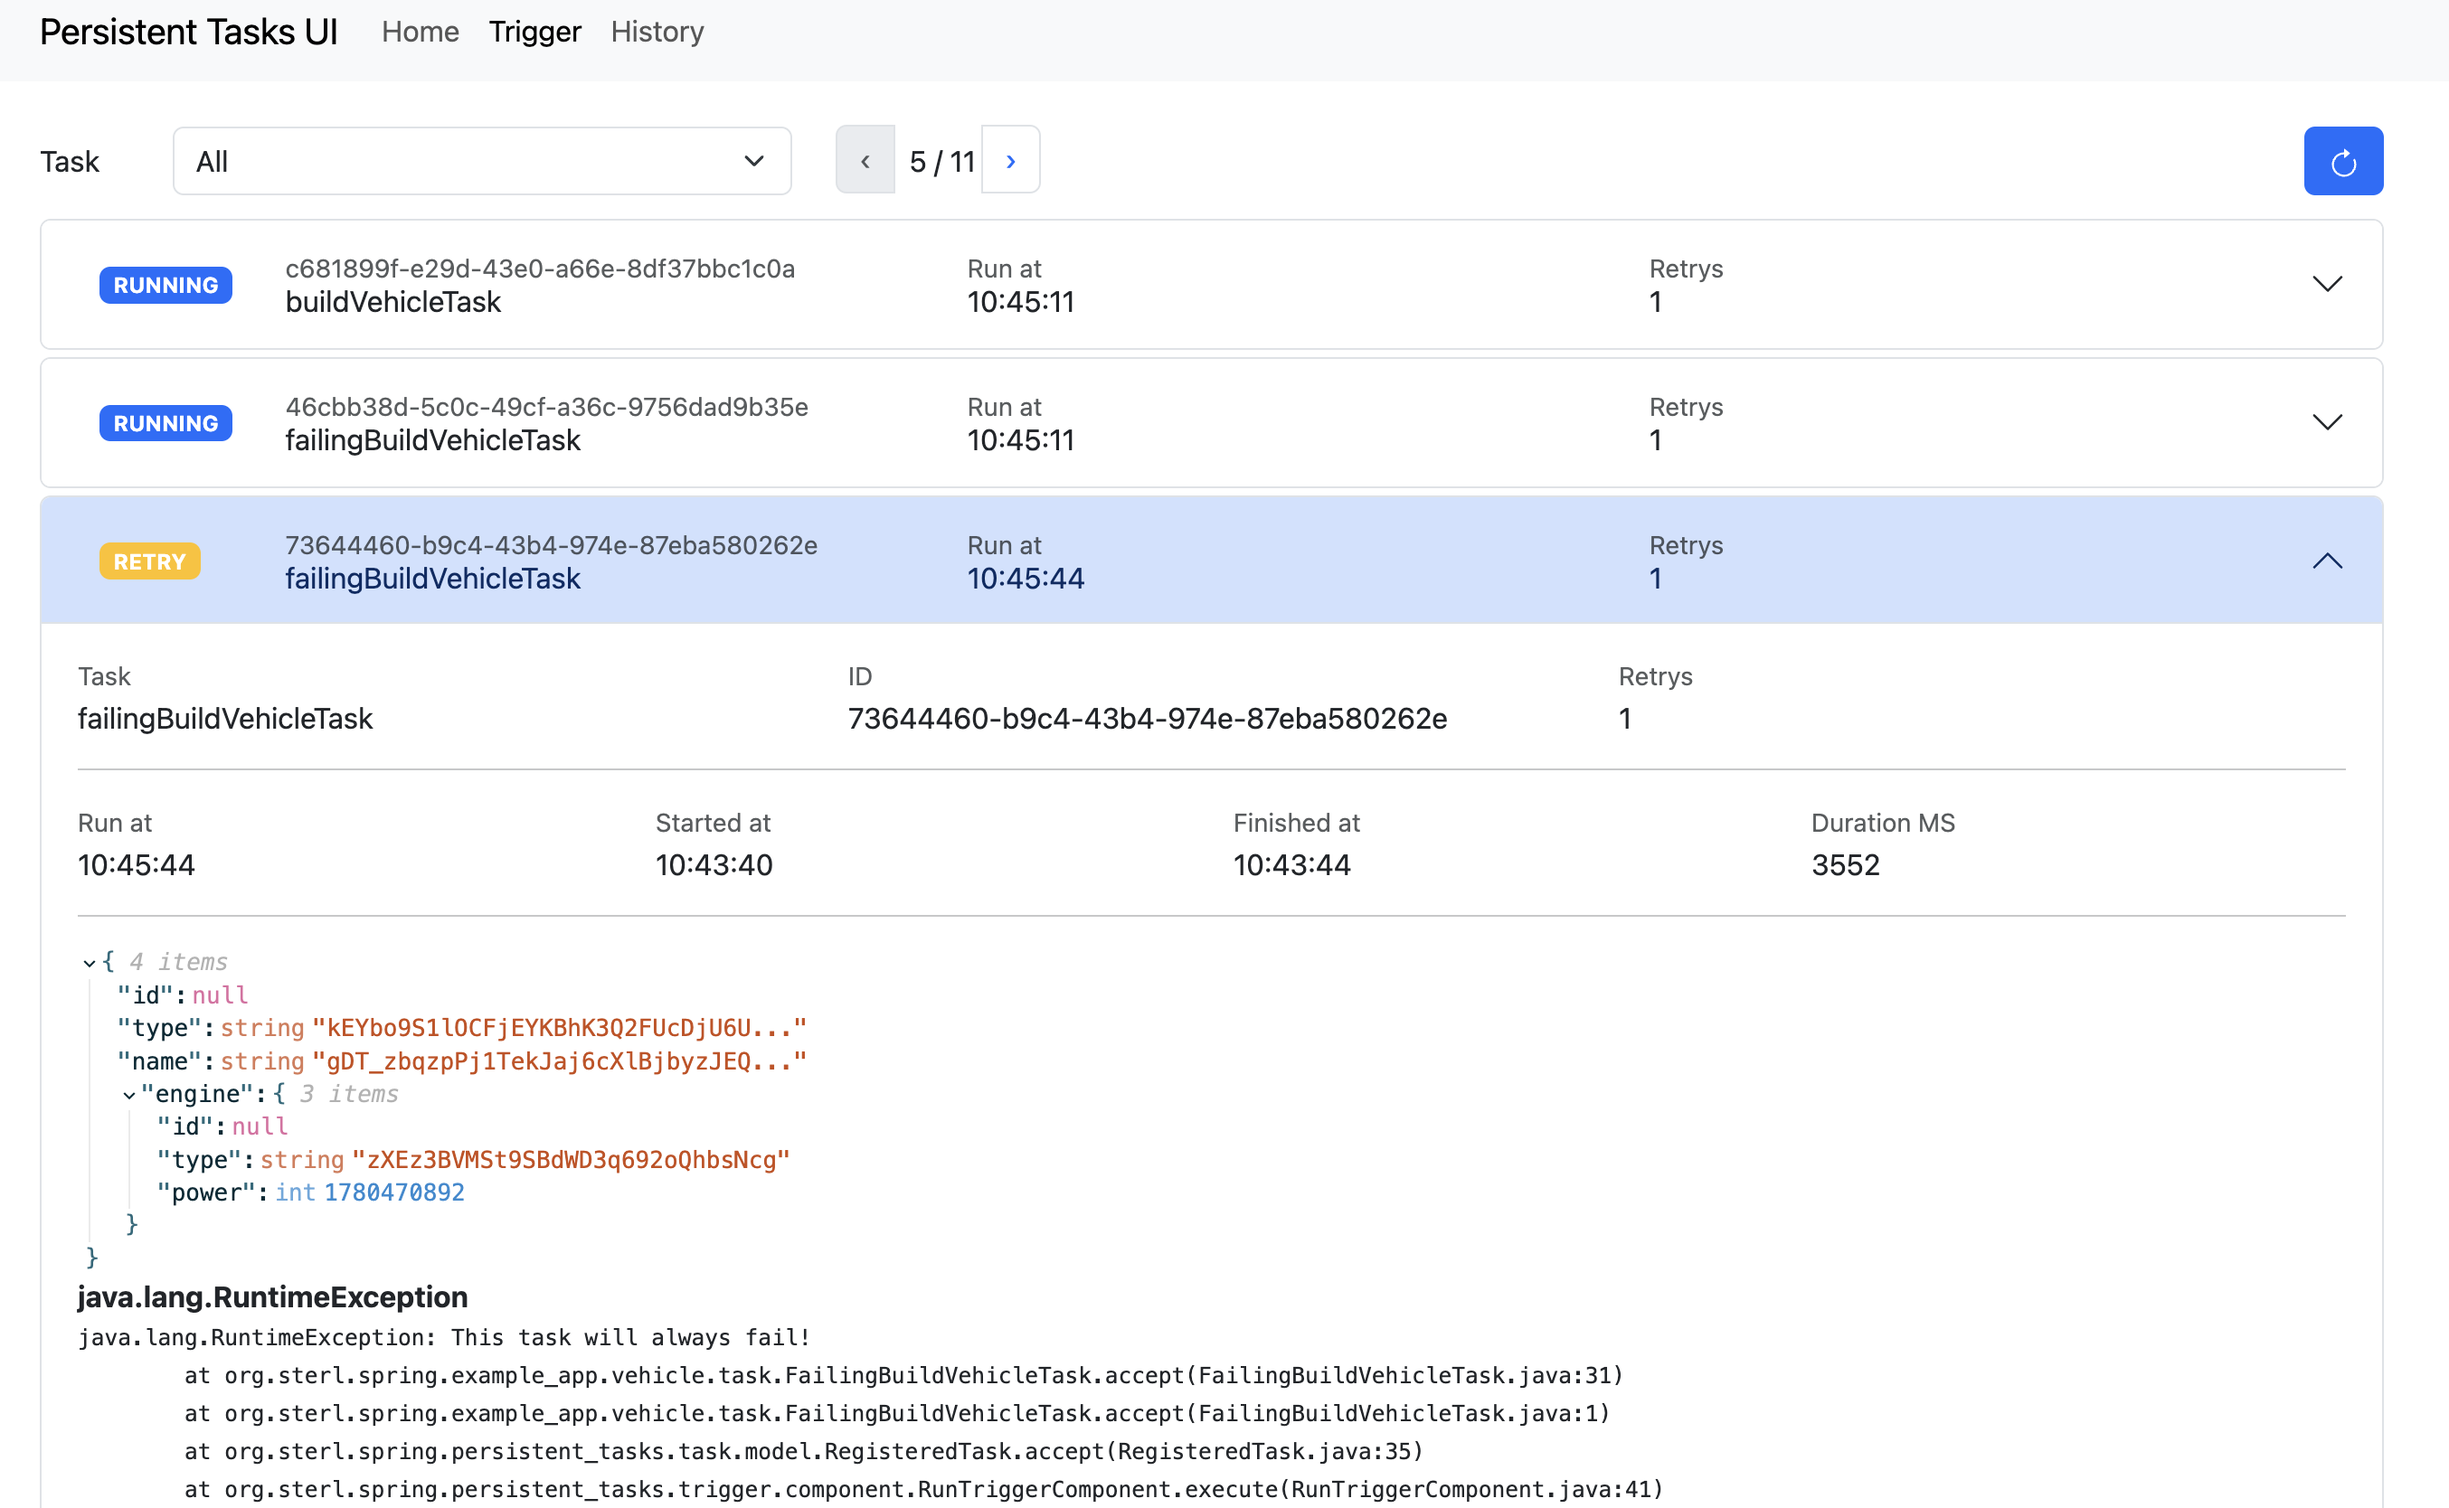
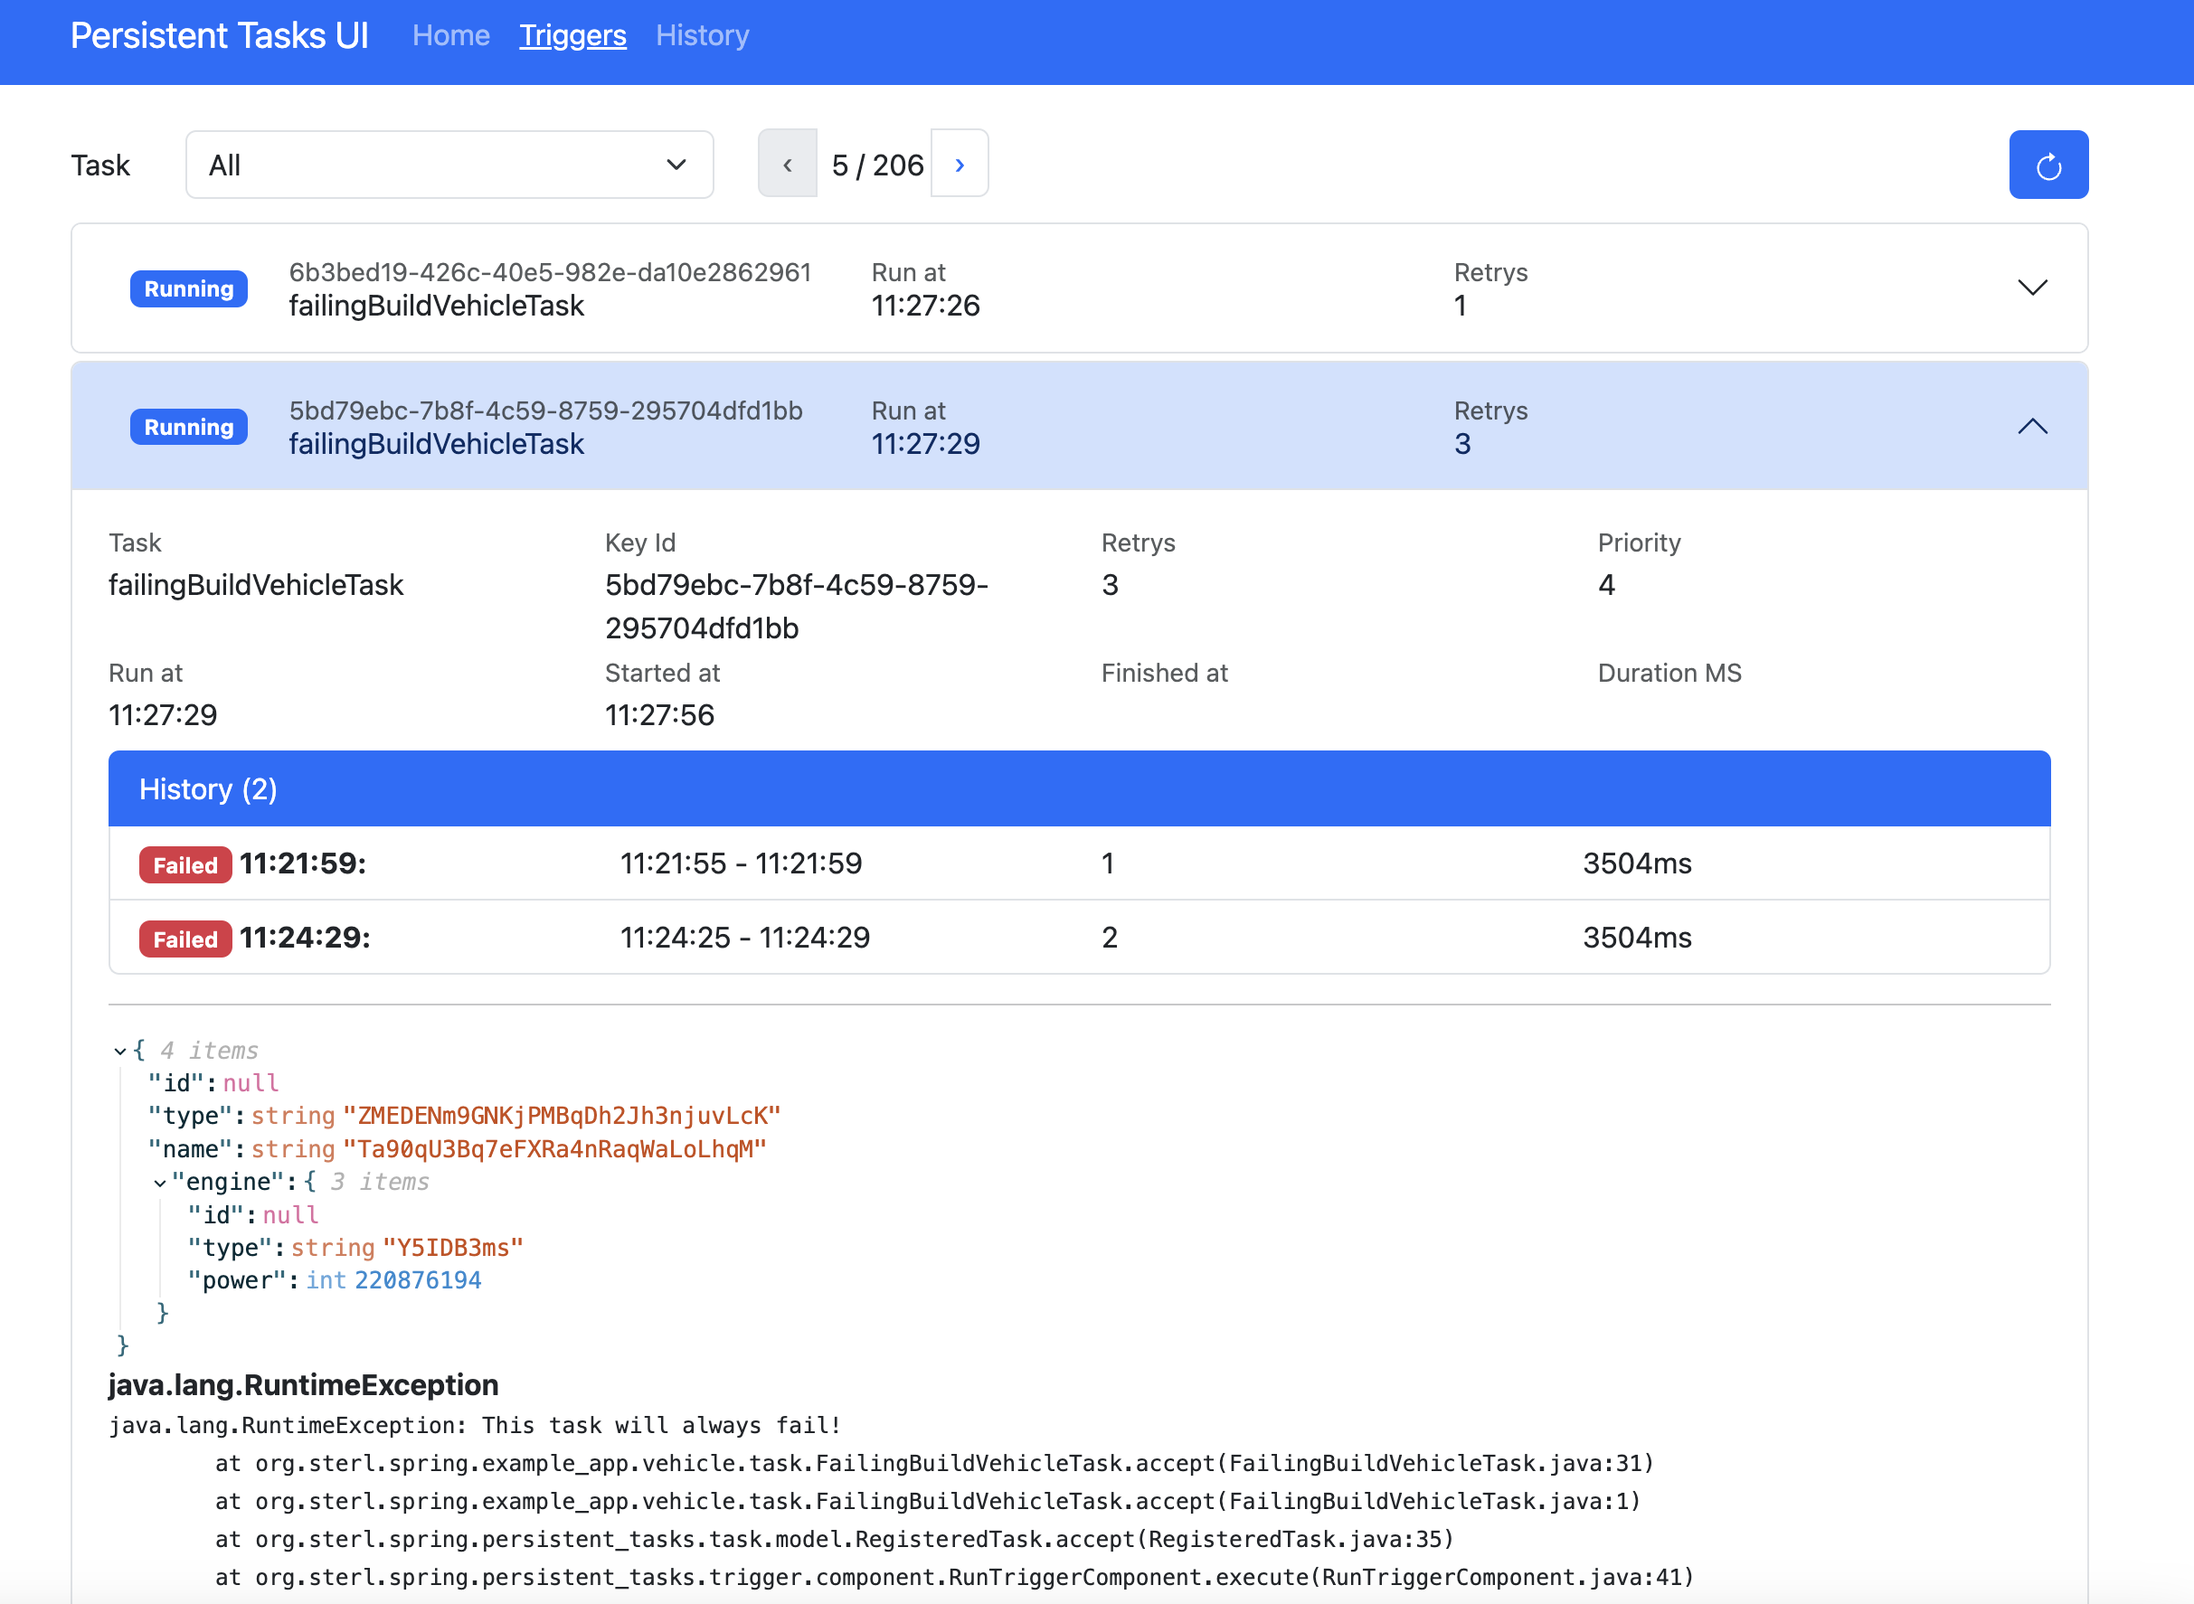
showing history

diff --git a/ui/src/history/view/trigger-history.view.tsx b/ui/src/history/view/trigger-history.view.tsx
@@ -20,7 +20,7 @@ const TriggerHistoryListView = ({ triggers }: { triggers?: Trigger[] }) => {
                         <Col>
                             <TriggerStatusView data={t} />
                             <strong>
-                                {" " + formatDateTime(t.createdTime)}:
+                                {" at " + formatDateTime(t.createdTime)}
                             </strong>
                         </Col>
                         <Col>

diff --git a/core/src/main/java/org/sterl/spring/persistent_tasks/trigger/TriggerService.java b/core/src/main/java/org/sterl/spring/persistent_tasks/trigger/TriggerService.java
@@ -6,7 +6,6 @@ import java.util.Collection;
 import java.util.List;
 import java.util.Optional;
 
-import org.springframework.context.event.EventListener;
 import org.springframework.data.domain.Page;
 import org.springframework.data.domain.Pageable;
 import org.springframework.lang.NonNull;
@@ -16,7 +15,6 @@ import org.springframework.transaction.annotation.Transactional;
 import org.sterl.spring.persistent_tasks.api.AddTriggerRequest;
 import org.sterl.spring.persistent_tasks.api.TaskId;
 import org.sterl.spring.persistent_tasks.api.TriggerKey;
-import org.sterl.spring.persistent_tasks.api.event.TriggerTaskCommand;
 import org.sterl.spring.persistent_tasks.shared.model.TriggerStatus;
 import org.sterl.spring.persistent_tasks.shared.stereotype.TransactionalService;
 import org.sterl.spring.persistent_tasks.task.TaskService;
@@ -45,13 +43,20 @@ public class TriggerService {
      * and handle any errors etc.
      *
      * @param trigger the {@link TriggerEntity} to run
-     * @return the reference to the updated {@link TriggerEntity}
+     * @return the reference to the found an executed {@link TriggerEntity}
      */
     @Transactional(propagation = Propagation.NEVER)
     public Optional<TriggerEntity> run(@Nullable TriggerEntity trigger) {
         return runTrigger.execute(trigger);
     }
 
+    /**
+     * The main purpose of this method is to simplify testing and run just one trigger.
+     * 
+     * @param triggerKey the key to trigger which should be executed
+     * @param runningOn just any string, could be test for testing, usually the scheduler name
+     * @return the reference to the found an executed {@link TriggerEntity}
+     */
     @Transactional(propagation = Propagation.NEVER)
     public Optional<TriggerEntity> run(TriggerKey triggerKey, String runningOn) {
         final TriggerEntity trigger = lockNextTrigger.lock(triggerKey, runningOn);
@@ -106,11 +111,14 @@ public class TriggerService {
         return readTrigger.hasPendingTriggers();
     }
 
-    @EventListener
-    public void queue(TriggerTaskCommand<? extends Serializable> event) {
-        queueAll(event.triggers());
-    }
-
+    /**
+     * Adds or updates an existing trigger based on its {@link TriggerKey}
+     * 
+     * @param <T> the state type
+     * @param tigger the {@link AddTriggerRequest} to save
+     * @return the saved {@link TriggerEntity}
+     * @throws IllegalStateException if the trigger already exists and is {@link TriggerStatus#RUNNING}
+     */
     public <T extends Serializable> TriggerEntity queue(AddTriggerRequest<T> tigger) {
         taskService.assertIsKnown(tigger.taskId());
         return editTrigger.addTrigger(tigger);

diff --git a/core/src/main/java/org/sterl/spring/persistent_tasks/PersistentTaskService.java b/core/src/main/java/org/sterl/spring/persistent_tasks/PersistentTaskService.java
@@ -1,0 +1,49 @@
+package org.sterl.spring.persistent_tasks;
+
+import java.io.Serializable;
+
+import org.springframework.beans.factory.annotation.Autowired;
+import org.springframework.context.event.EventListener;
+import org.springframework.stereotype.Service;
+import org.sterl.spring.persistent_tasks.api.AddTriggerRequest;
+import org.sterl.spring.persistent_tasks.api.TriggerKey;
+import org.sterl.spring.persistent_tasks.api.event.TriggerTaskCommand;
+import org.sterl.spring.persistent_tasks.scheduler.SchedulerService;
+import org.sterl.spring.persistent_tasks.trigger.TriggerService;
+
+/**
+ * Abstraction to {@link SchedulerService} or {@link TriggerService}
+ * depends on if the {@link SchedulerService} is available.
+ */
+@Service
+public class PersistentTaskService {
+
+    @Autowired(required = false)
+    private SchedulerService schedulerService;
+    @Autowired
+    private TriggerService triggerService;
+    
+    @EventListener
+    void queue(TriggerTaskCommand<? extends Serializable> event) {
+        if (event.triggers().size() == 1) {
+            runOrQueue(event.triggers().iterator().next());
+        } else {
+            triggerService.queueAll(event.triggers());
+        }
+    }
+
+    /**
+     * Runs the given trigger if a free threads are available
+     * and the runAt time is not in the future.
+     * @return the reference to the {@link TriggerKey} 
+     */
+    public <T extends Serializable> TriggerKey runOrQueue(
+            AddTriggerRequest<T> triggerRequest) {
+        if (schedulerService == null) {
+            schedulerService.runOrQueue(triggerRequest);
+        } else {
+            triggerService.queue(triggerRequest);
+        }
+        return triggerRequest.key();
+    }
+}

diff --git a/core/src/main/java/org/sterl/spring/persistent_tasks/trigger/component/EditTriggerComponent.java b/core/src/main/java/org/sterl/spring/persistent_tasks/trigger/component/EditTriggerComponent.java
@@ -17,6 +17,7 @@ import org.sterl.spring.persistent_tasks.api.TaskId;
 import org.sterl.spring.persistent_tasks.api.TriggerKey;
 import org.sterl.spring.persistent_tasks.shared.model.TriggerData;
 import org.sterl.spring.persistent_tasks.shared.model.TriggerStatus;
+import org.sterl.spring.persistent_tasks.trigger.event.TriggerAddedEvent;
 import org.sterl.spring.persistent_tasks.trigger.event.TriggerCanceledEvent;
 import org.sterl.spring.persistent_tasks.trigger.event.TriggerCompleteEvent;
 import org.sterl.spring.persistent_tasks.trigger.event.TriggerFailedEvent;
@@ -90,7 +91,7 @@ public class EditTriggerComponent {
         final Optional<TriggerEntity> existing = triggerRepository.findByKey(result.getKey());
         if (existing.isPresent()) {
             if (existing.get().isRunning()) 
-                throw new IllegalStateException("Cannot update running trigger " + result.getKey());
+                throw new IllegalStateException("Cannot update a running trigger " + result.getKey());
             
             existing.get().setData(result.getData());
             result = existing.get();
@@ -98,6 +99,7 @@ public class EditTriggerComponent {
         } else {
             result = triggerRepository.save(result);
             log.debug("Added trigger={}", result);
+            publisher.publishEvent(new TriggerAddedEvent(result));
         }
         return result;
     }

diff --git a/core/src/main/java/org/sterl/spring/persistent_tasks/scheduler/SchedulerService.java b/core/src/main/java/org/sterl/spring/persistent_tasks/scheduler/SchedulerService.java
@@ -117,10 +117,11 @@ public class SchedulerService {
     }
 
     /**
-     * Runs the next trigger if free threads are available
+     * Runs the given trigger if a free threads are available
      * and the runAt time is not in the future.
      */
-    public Optional<Future<TriggerKey>> runOrQueue(AddTriggerRequest<? extends Serializable> triggerRequest) {
+    public <T extends Serializable> Optional<Future<TriggerKey>> runOrQueue(
+            AddTriggerRequest<T> triggerRequest) {
         return trx.execute(t -> {
             Optional<Future<TriggerKey>> result = Optional.empty();
             var trigger = triggerService.queue(triggerRequest);

diff --git a/core/src/main/java/org/sterl/spring/persistent_tasks/trigger/event/TriggerAddedEvent.java b/core/src/main/java/org/sterl/spring/persistent_tasks/trigger/event/TriggerAddedEvent.java
@@ -1,0 +1,7 @@
+package org.sterl.spring.persistent_tasks.trigger.event;
+
+import org.sterl.spring.persistent_tasks.trigger.model.TriggerEntity;
+
+public record TriggerAddedEvent(TriggerEntity trigger) implements TriggerLifeCycleEvent {
+
+}

diff --git a/README.md b/README.md
@@ -10,6 +10,8 @@ Secondary goal is to support [Poor mans Workflow](https://github.com/sterlp/pmw)
 
 # Setup and Run a Task
 
+- [JavaDoc](https://sterlp.github.io/spring-persistent-tasks/javadoc-core/)
+
 ## Maven
 
 - [Maven Central spring-persistent-tasks-core](https://central.sonatype.com/artifact/org.sterl.spring/spring-persistent-tasks-core/versions)

diff --git a/CHANGELOG.md b/CHANGELOG.md
@@ -1,3 +1,6 @@
 # Changelog
 
 ## [v1.0.1]
+
+- Showing trigger history entries
+- Added PersistentTaskService as a abstraction
